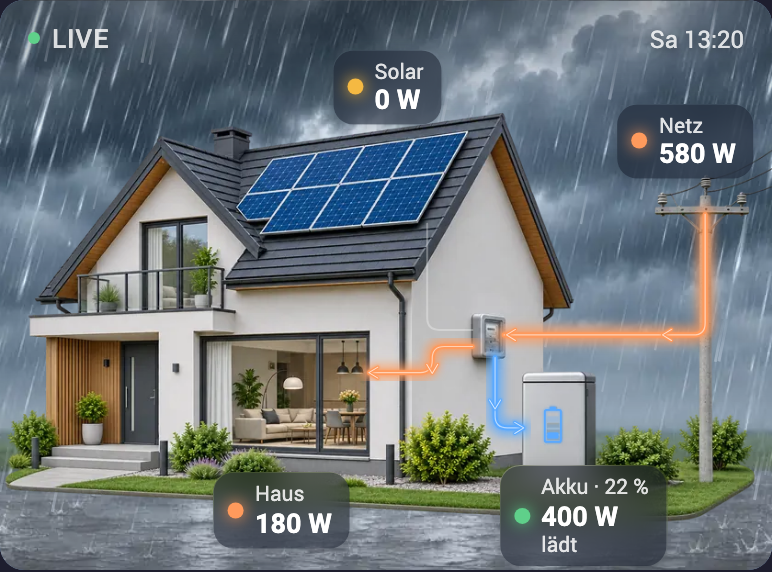
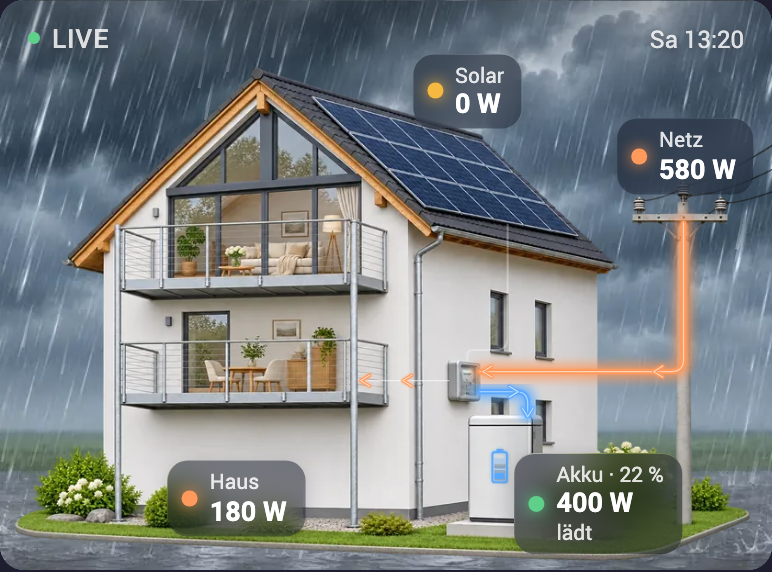
0.4.1: new house in the house scene, day and night

diff --git a/src/flowstyles.js b/src/flowstyles.js
@@ -105,34 +105,36 @@ const dur = (w, byPower) => (byPower ? Math.max(1.2, 4 - Math.log10(w + 1) * 0.9
 
 // ---------- house scene ----------
 
-// Pixels of the 1536 × 1024 render. Each leg runs from its node to the meter box (the hub), listed node → hub.
-const HOUSE = {
+// Pixels of the 1536 × 1024 render. Each leg runs from its node to the meter box (the hub), listed node → hub. The
+// night render places the meter box and the battery 12 px further right than the day one: `shift` moves the points
+// that end on them.
+const houseGeometry = (shift) => ({
   legs: {
     solar: [
-      [850, 334],
-      [850, 545],
-      [940, 545],
+      [1010, 336],
+      [1010, 585],
+      [930 + shift, 585],
+      [930 + shift, 606],
     ],
     house: [
-      [735, 630],
-      [860, 630],
-      [860, 578],
-      [940, 578],
+      [720, 646],
+      [893 + shift, 646],
     ],
     battery: [
-      [1040, 740],
-      [985, 740],
-      [985, 600],
+      [1050 + shift, 715],
+      [1050 + shift, 668],
+      [955 + shift, 668],
     ],
     grid: [
-      [1403, 315],
-      [1403, 555],
-      [1003, 555],
+      [1360, 332],
+      [1360, 628],
+      [955 + shift, 628],
     ],
   },
-  chips: { solar: [770, 62, "c"], house: [560, 905, "c"], battery: [1160, 915, "c"], grid: [1500, 170, "r"] },
-  batIcon: [1100, 734, 36, 72],
-};
+  chips: { solar: [930, 70, "c"], house: [470, 880, "c"], battery: [1190 + shift, 890, "c"], grid: [1500, 200, "r"] },
+  batIcon: [994 + shift, 816, 32, 67],
+});
+const HOUSES = { day: houseGeometry(0), night: houseGeometry(12) };
 
 /** Orthogonal polyline → path with rounded corners. */
 export function roundPath(pts, r = 24) {
@@ -198,7 +200,7 @@ function leg(pts, w, color, outward, opts) {
   </g>`;
 }
 
-function batteryGlow(p, soc, animations) {
+function batteryGlow(p, soc, animations, HOUSE) {
   if (!p.charge && !p.discharge) return "";
   const [x, y, w, h] = HOUSE.batIcon;
   const lit = Number.isFinite(soc) ? Math.max(1, Math.ceil(soc / 33.4)) : 3;
@@ -217,6 +219,7 @@ export function renderHouse(live, opts) {
   const { t, lang } = opts;
   const p = flowParts(live, opts.threshold);
   const soc = Number.isFinite(live.soc) ? Math.max(0, Math.min(100, live.soc)) : null;
+  const HOUSE = opts.sky?.night ? HOUSES.night : HOUSES.day;
   const L = HOUSE.legs;
   const exporting = p.export > 0 && p.export >= p.import;
   const legs = [
@@ -250,7 +253,7 @@ export function renderHouse(live, opts) {
           <filter id="eoc-hglow" x="-30%" y="-30%" width="160%" height="160%"><feGaussianBlur stdDeviation="9"/></filter>
           <filter id="eoc-hsoft" x="-30%" y="-30%" width="160%" height="160%"><feGaussianBlur stdDeviation="3" result="b"/><feMerge><feMergeNode in="b"/><feMergeNode in="SourceGraphic"/></feMerge></filter>
         </defs>
-        ${legs}${batteryGlow(p, soc, opts.animations)}
+        ${legs}${batteryGlow(p, soc, opts.animations, HOUSE)}
       </svg>
       ${chip("solar", t("solar"), fmtPower(live.solar, lang), "", C.pv)}
       ${chip("house", t("house"), fmtPower(live.house, lang), "", p.houseColor)}

diff --git a/CHANGELOG.md b/CHANGELOG.md
@@ -1,5 +1,11 @@
 # Changelog
 
+## 0.4.1 (2026-11-18)
+
+- House scene (`flow_style: house`): a new house, a white two-storey house with two balconies, PV on the roof, the meter
+  box and the battery on its side wall and the grid pole beside it, in a day and a night render. The lines run from the
+  roof modules, the pole, the battery and the lower balcony to the meter box; the night render has its own positions.
+
 ## 0.4.0 (2026-11-18)
 
 - **Illustrated header** on the main card, the mini card and the dialog, in the style of juju35's cards: a 90 px banner
